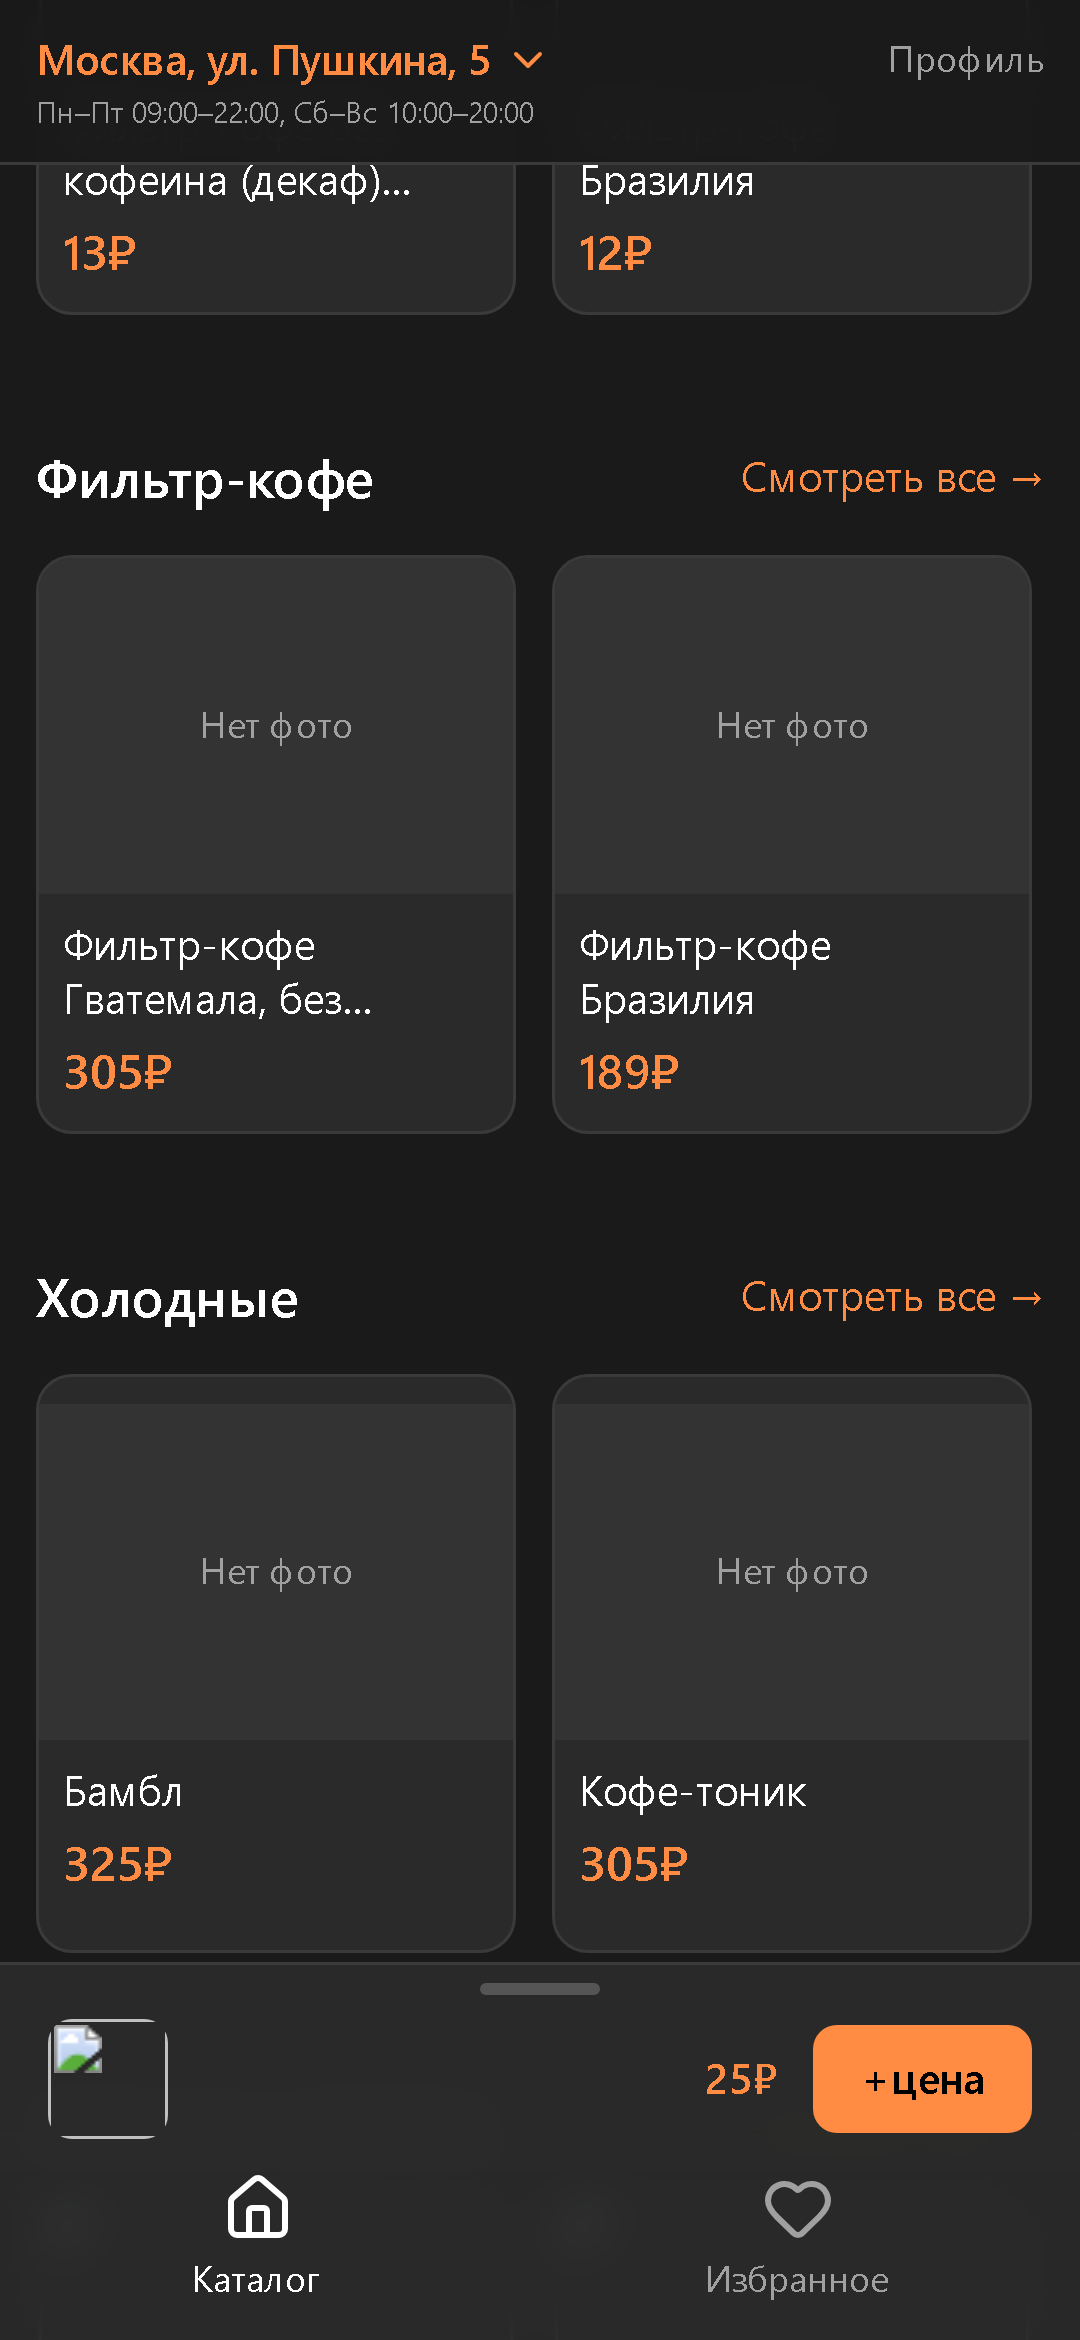
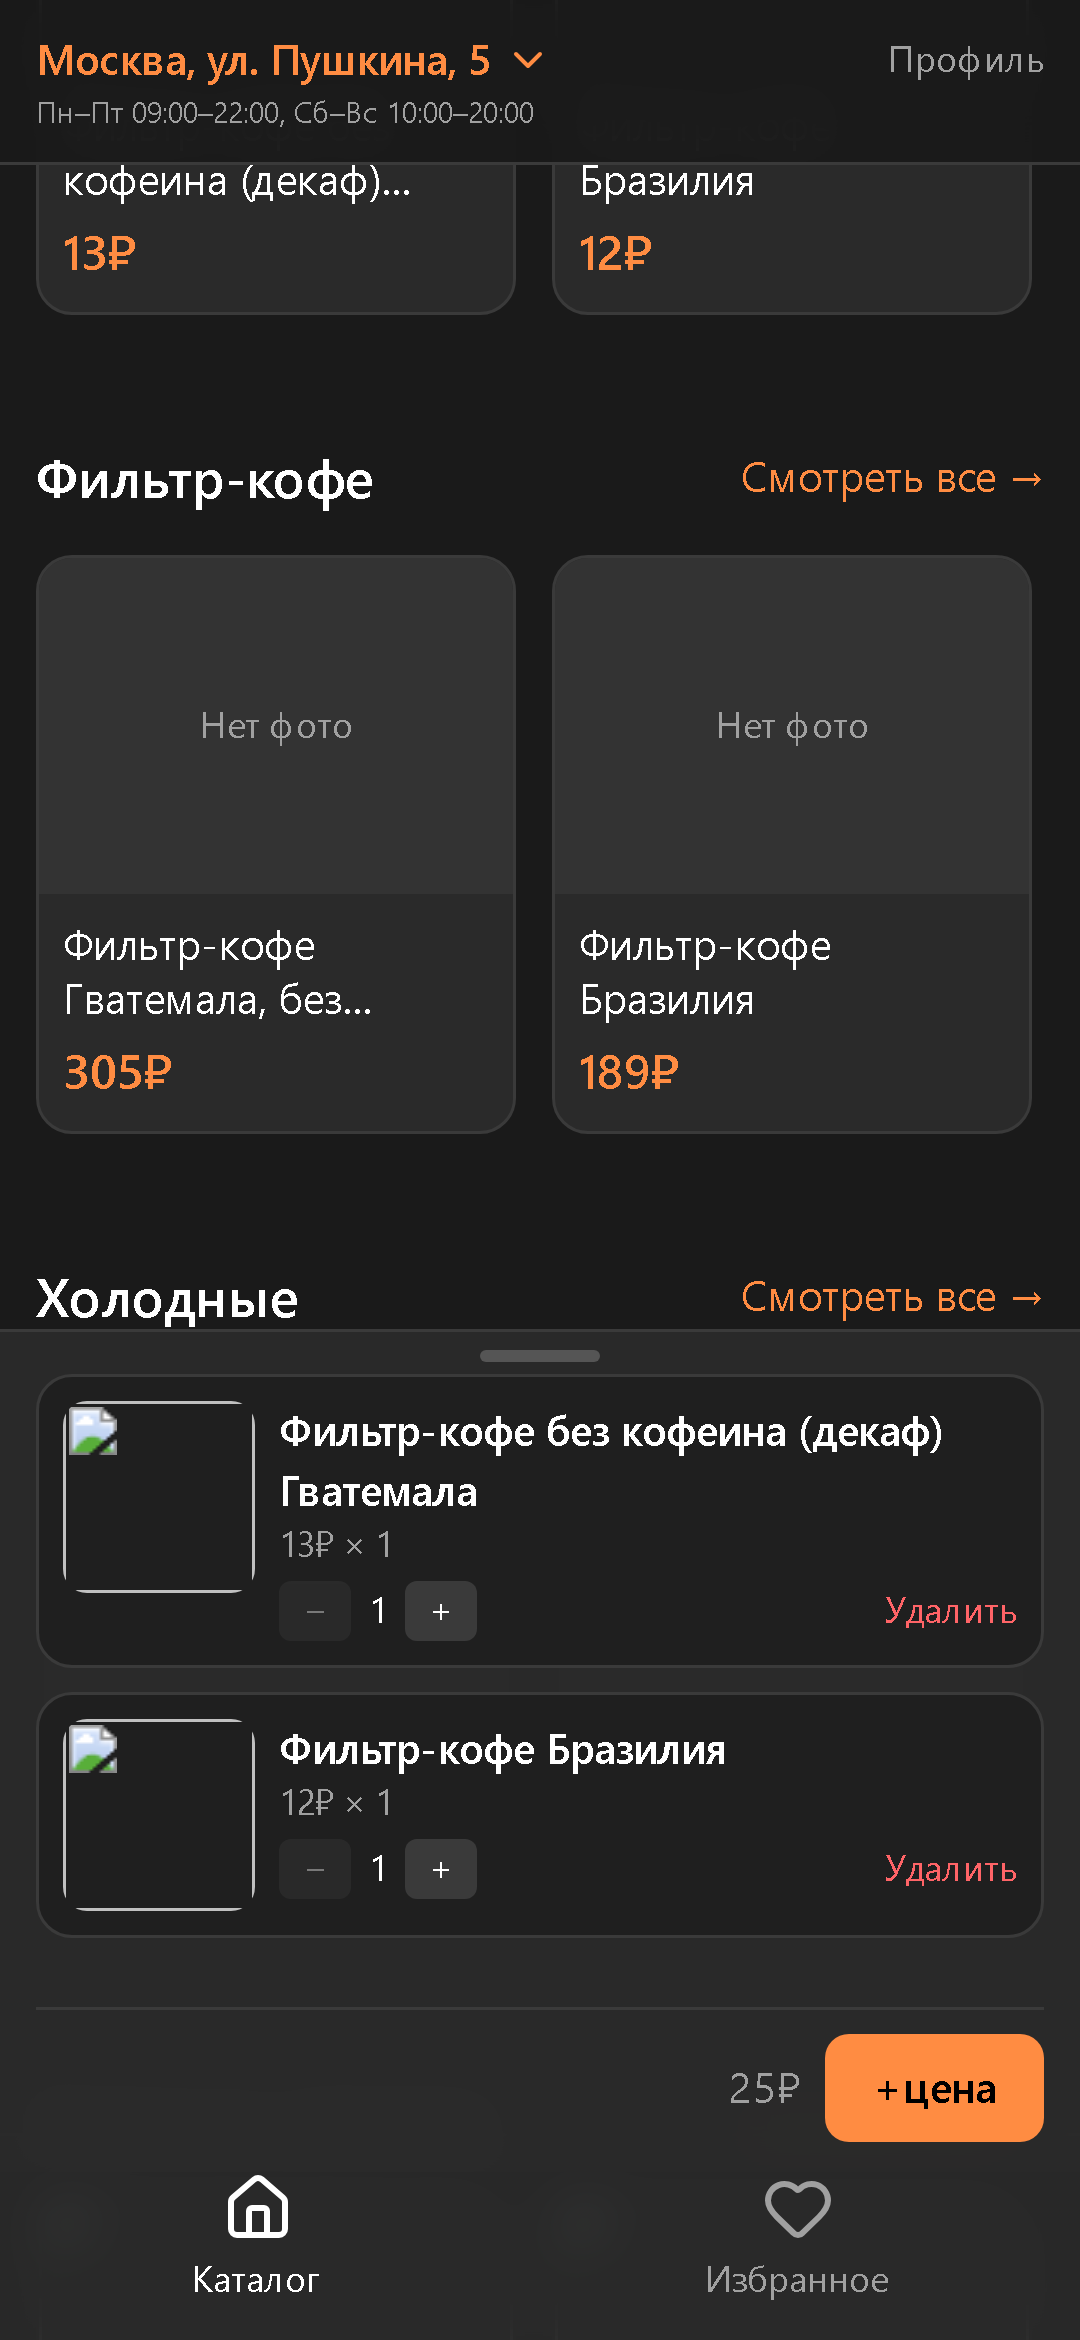
fix(B1.13-S2b): swipe MCP 14/14 + CartSheet pointer capture
MCP swipe uses 72px delta on hidden chip; pointer capture and touch-action for real gestures.

diff --git a/app/frontend/components/CartSheet.svelte b/app/frontend/components/CartSheet.svelte
@@ -53,10 +53,16 @@
 
   function onPointerDown(event) {
     touchStartY = event.clientY
+    event.currentTarget?.setPointerCapture?.(event.pointerId)
   }
 
   function onPointerUp(event) {
     tryExpandFromSwipe(touchStartY, event.clientY)
+    event.currentTarget?.releasePointerCapture?.(event.pointerId)
+  }
+
+  function onPointerCancel() {
+    touchStartY = 0
   }
 
   onMount(() => {
@@ -104,10 +110,12 @@
     style:bottom="{CART_SHEET_BOTTOM_REM}rem"
     style:max-width="{CART_SHEET_MAX_WIDTH_PX}px"
     style:transition-duration="{SHEET_TRANSITION_MS}ms"
+    style:touch-action="none"
     ontouchstart={onTouchStart}
     ontouchend={onTouchEnd}
     onpointerdown={onPointerDown}
     onpointerup={onPointerUp}
+    onpointercancel={onPointerCancel}
   >
     <div class="drag-handle mx-auto mt-1.5 h-1 w-10 rounded-full bg-[#555]" aria-hidden="true"></div>
 

diff --git a/test/integration/shop/b113_s2a_cart_sheet_acceptance_test.rb b/test/integration/shop/b113_s2a_cart_sheet_acceptance_test.rb
@@ -89,7 +89,9 @@ class Shop::B113S2aCartSheetAcceptanceTest < ActionDispatch::IntegrationTest
 
     assert_includes sheet, "onpointerdown"
     assert_includes sheet, "onpointerup"
+    assert_includes sheet, "onpointercancel"
     assert_includes sheet, "tryExpandFromSwipe"
+    assert_includes sheet, 'touch-action="none"'
   end
 
   test "cart api returns expanded card payload fields" do

diff --git a/docs/operations/milestones/veha_2/requirements/customer_tasks/B1_13_shop_nav_profile_header.md b/docs/operations/milestones/veha_2/requirements/customer_tasks/B1_13_shop_nav_profile_header.md
@@ -405,14 +405,14 @@
 
 ## Чеклист приёмки S2a
 
-- [x] После add → поп-ап **expanded** (100%) — код `[x]` · MCP **13/14** `[x]` · артефакт `b113_s2a_s2b_rev2_post_deploy_2026-06-27.json`
+- [x] После add → поп-ап **expanded** (100%) — MCP **14/14** · `b113_s2a_s2b_rev2_post_deploy_2026-06-27.json`
 - [x] Карточка: изображение, название, цена × количество, модификаторы (100%) — MCP `[x]`
 - [x] Переключение expanded / peek / hidden — testid / `setCartSheetMode` (100%) — MCP `[x]`
 - [x] Анимация перехода **300ms ± 50ms** (100%) — MCP `[x]` (0.3s на Fly)
 - [x] Поп-ап над bottom bar · 320–414px — MCP `[x]`
 - [ ] Corner: пустая корзина — **Q-rev2** (не трогали)
 - [x] Corner: Избранное/Профиль — localStorage (S2b) — MCP `[x]`
-- [x] Тест + MCP step — тесты `[x]` · MCP **13/14** (свайп — после redeploy pointer)
+- [x] Тест + MCP step — **14/14 PASS**
 
 ### Прогон 3 — S2a сверка (2026-06-24)
 
@@ -422,7 +422,7 @@
 - [x] `SHEET_TRANSITION_MS=300`, `CART_SHEET_BOTTOM_REM=3.5`, `max-width 414px`
 - [x] `setCartSheetMode` + `data-cart-sheet-mode`
 - [x] тест `b113_s2a_cart_sheet_acceptance_test.rb`
-- [x] Fly MCP прогон 4 — **13/14** (swipe после redeploy pointer)
+- [x] Fly MCP прогон 4 — **14/14**
 
 ## Текст заказчика (дословно, rev2 №2)
 
@@ -511,11 +511,11 @@
 
 - [x] Скролл вниз 100px ± 10px → **peek** (100%) — MCP `[x]`
 - [x] Скролл вниз 200px ± 10px → **hidden** (100%) — MCP `[x]`
-- [ ] Свайп вверх на поп-апе → **expanded** (100%) — код pointer `[x]` · MCP **blocked** (redeploy)
+- [x] Свайп вверх на поп-апе → **expanded** (100%) — MCP `[x]`
 - [x] Скролл вверх — состояние **сохраняется** (100%) — MCP `[x]`
 - [x] 1 товар: свайп вверх **не** раскрывает (100%) — MCP `[x]`
 - [x] Навигация между экранами + возврат — localStorage (100%) — MCP `[x]`
-- [x] Тест + MCP step — тесты `[x]` · MCP **13/14**
+- [x] Тест + MCP step — **14/14 PASS**
 
 ### Прогон 4 — Fly MCP S2a/S2b (2026-06-27)
 
@@ -529,7 +529,7 @@
 - [x] `SCROLL_TO_PEEK_PX = 100`, `SCROLL_TO_HIDDEN_PX = 200` — код (`cartSheetThresholds.js`)
 - [x] `handleCatalogScroll`: hidden @200 проверяется до peek @100 (`cartSheetStore.js`)
 - [x] тест `b113_s2b_scroll_thresholds_test.rb` + регрессия `b113_s2_cart_popup_test.rb`
-- [x] Fly MCP прогон 4 — **13/14** (swipe после redeploy pointer)
+- [x] Fly MCP прогон 4 — **14/14**
 
 ### Прогон 2 — localStorage режима (2026-06-24)
 
@@ -537,7 +537,7 @@
 - [x] `onCatalogRouteChange` — save на уходе, restore при `#/`
 - [x] `CartSheet.svelte` — hashchange hook
 - [x] тест `b113_s2b_mode_persistence_test.rb` (свайп, скролл вверх, 1 товар, persistence)
-- [x] Fly MCP прогон 4 — **13/14** (swipe после redeploy pointer)
+- [x] Fly MCP прогон 4 — **14/14**
 
 ## Текст заказчика (дословно, rev2 №3)
 

diff --git a/docs/operations/session/SESSION_STATE.md b/docs/operations/session/SESSION_STATE.md
@@ -2,7 +2,7 @@
 
 ## Текущее состояние
 
-**Дата:** 2026-06-27 (B1.13 прогон 4 — Fly MCP S2a/S2b 13/14)  
+**Дата:** 2026-06-27 (B1.13 Fly MCP S2a/S2b **14/14**)  
 **Предыдущее:** B1.12-R3 Fly MCP 8/8 · B1.11 этап 0 · B1.7 **ЗАКРЫТА**  
 **Веха 1:** **закрыта** 2026-06-19 (CHECKLIST § I, H.3 заочно).  
 **Веха 2:** прогон 10 блоки **0–14** ✅ (ops); **§I не закрыта** (§E).  
@@ -22,8 +22,15 @@
 |--------|--------|
 | **B1.12 rev2** | R3 `[x]` Fly MCP **10/10** · RSA Fly `[x]` | **апрув заказчика** |
 | **B1.11 режим работы** | **Fly MCP header A/B PASS** · артефакт 2026-06-21 | **апрув заказчика** |
-| **B1.13 навигация** | Fly MCP S2a/S2b **13/14** · swipe blocked | **redeploy** pointer + re-run MCP |
+| **B1.13 навигация** | Fly MCP S2a/S2b **14/14** · S3-rev2 12/12 | redeploy CartSheet swipe UX · апрув · Q-rev2 |
 | **B1.14 адрес в шапке** | **B1.14-3d** index map `[x]` | deploy (`./bin/fly_deploy.sh`) · B1.14-4 cart |
+
+### Сессия 2026-06-27 (B1.13: MCP S2a/S2b 14/14 — swipe fix)
+
+- **MCP:** `b113_s2a_s2b_rev2_mcp.mjs` — **14/14 PASS** (swipe: delta 72px + Pointer/Touch dispatch)
+- **Код:** CartSheet — `pointercapture`, `touch-action: none`, `onpointercancel`
+- **Артефакт:** `b113_s2a_s2b_rev2_post_deploy_2026-06-27.json` обновлён
+- **Дальше:** redeploy CartSheet UX → апрув S2a/S2b · Q-rev2
 
 ### Сессия 2026-06-27 (B1.13 прогон 4: Fly MCP S2a/S2b)
 

diff --git a/docs/operations/session/HANDOFF.md b/docs/operations/session/HANDOFF.md
@@ -1,6 +1,6 @@
 # HANDOFF — Веха 2 (Веха 1 **закрыта** 2026-06-19)
 
-**Дата:** 2026-06-27 (B1.13 прогон 4 — Fly MCP 13/14)  
+**Дата:** 2026-06-27 (B1.13 Fly MCP **14/14**)  
 **Ветка:** `develop`  
 **Прод:** https://coffeeos.fly.dev
 
@@ -32,9 +32,9 @@
 | **S2b прогон 1** | скролл 100/200 px — **код `[x]`** |
 | **S2b прогон 2** | localStorage режима — **код `[x]`** |
 | **S2a прогон 3** | приёмка с товаром — **код `[x]`** |
-| **Прогон 4 Fly MCP** | **13/14** · артефакт 2026-06-27 · swipe **blocked** |
+| **Прогон 4 Fly MCP** | **14/14** · артефакт 2026-06-27 |
 | **S4** | после закрытия rev2 |
-| **Следующий шаг** | **redeploy** (pointer swipe) → re-run MCP → апрув S2a/S2b |
+| **Следующий шаг** | **redeploy** (CartSheet swipe UX) · апрув S2a/S2b · Q-rev2 |
 | **Агент** | **стоп** |
 
 ТЗ: [`B1_13_shop_nav_profile_header.md`](../milestones/veha_2/requirements/customer_tasks/B1_13_shop_nav_profile_header.md)

diff --git a/docs/operations/journal/CHANGELOG.md b/docs/operations/journal/CHANGELOG.md
@@ -1,5 +1,11 @@
 # CHANGELOG
 
+## 2026-06-27 — B1.13: Fly MCP S2a/S2b **14/14** (swipe fix)
+
+- **MCP:** swipe delta 72px + Pointer/Touch dispatch — **14/14 PASS**
+- **Код:** CartSheet pointer capture + touch-action none
+- **Дальше:** redeploy UX · апрув S2a/S2b
+
 ## 2026-06-27 — B1.13 прогон 4: Fly MCP S2a/S2b (13/14)
 
 - **MCP:** `b113_s2a_s2b_rev2_mcp.mjs` — 13/14 на Fly после deploy владельца
